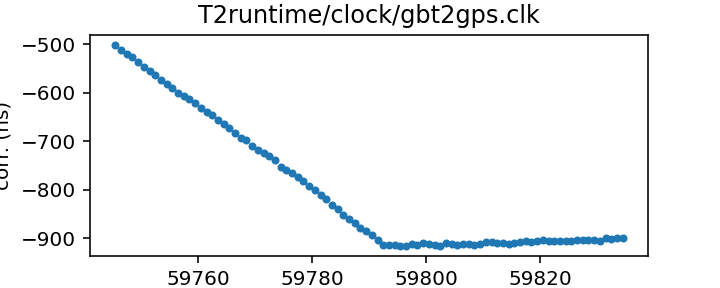
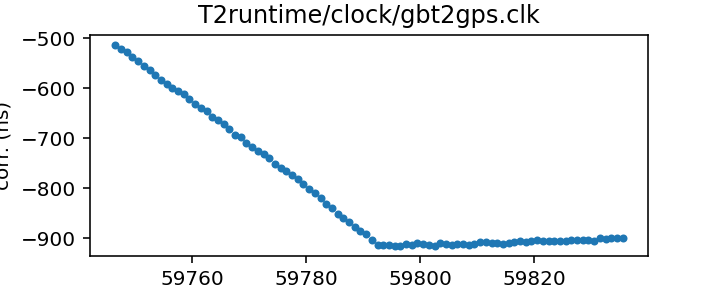
Routine gh-pages update from Github action Wed Sep 14 20:40:18 UTC 2022

diff --git a/status.md b/status.md
@@ -13,17 +13,17 @@ name of each clock file links to a page with more details.
 
 | Name | File | Corrections start | Corrections end | Last check date | Last check result 
 |:--- |:--- | --- | --- | --- |:--- 
-| [GPS to UTC](T2runtime/clock/gps2utc.clk.html) | `T2runtime/clock/gps2utc.clk` | 1993-01-01 MJD 48988.0 | 2022-08-28 MJD 59819.0 | 2022-09-13 | Unchanged 
-| [GPS to UTC (Combined Clock)](T2runtime/clock/gps2utc_cc.clk.html) | `T2runtime/clock/gps2utc_cc.clk` | 1993-01-01 MJD 48988.0 | 2022-08-28 MJD 59819.0 | 2022-09-13 | Unchanged 
-| [GPS to UTC (Corrected)](T2runtime/clock/gps2utc_c0p.clk.html) | `T2runtime/clock/gps2utc_c0p.clk` | 2010-12-29 MJD 55559.0 | 2022-08-28 MJD 59819.0 | 2022-09-13 | Unchanged 
-| [GBT](tempo/clock/time_gbt.dat.html) | `tempo/clock/time_gbt.dat` | 2000-12-31 MJD 51909.5 | 2022-09-12 MJD 59834.5 | 2022-09-13 | Updated 
-| [GBT (TEMPO2 converted from TEMPO)](T2runtime/clock/gbt2gps.clk.html) | `T2runtime/clock/gbt2gps.clk` | 2000-12-31 MJD 51909.5 | 2022-09-12 MJD 59834.5 | 2022-09-13 | Updated 
-| [Jodrell Bank](T2runtime/clock/jb2gps.clk.html) | `T2runtime/clock/jb2gps.clk` | 2006-10-13 MJD 54021.4 | 2021-11-03 MJD 59521.0 | 2022-09-07 | Unchanged 
-| [Jodrell Bank Roach](T2runtime/clock/jbroach2jb.clk.html) | `T2runtime/clock/jbroach2jb.clk` | 2006-10-13 MJD 54021.4 | 2018-03-20 MJD 58197.6 | 2022-09-07 | Unchanged 
-| [Jodrell Bank DFB](T2runtime/clock/jbdfb2jb.clk.html) | `T2runtime/clock/jbdfb2jb.clk` | 2006-10-13 MJD 54021.4 | 2017-05-11 MJD 57884.0 | 2022-09-07 | Unchanged 
+| [GPS to UTC](T2runtime/clock/gps2utc.clk.html) | `T2runtime/clock/gps2utc.clk` | 1993-01-01 MJD 48988.0 | 2022-08-28 MJD 59819.0 | 2022-09-14 | Unchanged 
+| [GPS to UTC (Combined Clock)](T2runtime/clock/gps2utc_cc.clk.html) | `T2runtime/clock/gps2utc_cc.clk` | 1993-01-01 MJD 48988.0 | 2022-08-28 MJD 59819.0 | 2022-09-14 | Unchanged 
+| [GPS to UTC (Corrected)](T2runtime/clock/gps2utc_c0p.clk.html) | `T2runtime/clock/gps2utc_c0p.clk` | 2010-12-29 MJD 55559.0 | 2022-08-28 MJD 59819.0 | 2022-09-14 | Unchanged 
+| [GBT](tempo/clock/time_gbt.dat.html) | `tempo/clock/time_gbt.dat` | 2000-12-31 MJD 51909.5 | 2022-09-13 MJD 59835.5 | 2022-09-14 | Updated 
+| [GBT (TEMPO2 converted from TEMPO)](T2runtime/clock/gbt2gps.clk.html) | `T2runtime/clock/gbt2gps.clk` | 2000-12-31 MJD 51909.5 | 2022-09-13 MJD 59835.5 | 2022-09-14 | Updated 
+| [Jodrell Bank](T2runtime/clock/jb2gps.clk.html) | `T2runtime/clock/jb2gps.clk` | 2006-10-13 MJD 54021.4 | 2021-11-03 MJD 59521.0 | 2022-09-14 | Unchanged 
+| [Jodrell Bank Roach](T2runtime/clock/jbroach2jb.clk.html) | `T2runtime/clock/jbroach2jb.clk` | 2006-10-13 MJD 54021.4 | 2018-03-20 MJD 58197.6 | 2022-09-14 | Unchanged 
+| [Jodrell Bank DFB](T2runtime/clock/jbdfb2jb.clk.html) | `T2runtime/clock/jbdfb2jb.clk` | 2006-10-13 MJD 54021.4 | 2017-05-11 MJD 57884.0 | 2022-09-14 | Unchanged 
 | [Meerkat (observatory)](T2runtime/clock/mk2utc_observatory.clk.html) | `T2runtime/clock/mk2utc_observatory.clk` | 2019-01-01 MJD 58484.0 | 2022-08-17 MJD 59809.0 | 2022-09-12 | **Failed to download** 
-| [Leap seconds](tempo/clock/leap.sec.html) | `tempo/clock/leap.sec` | 1972-07-01 MJD 41499.0 | 2017-01-01 MJD 57754.0 | 2022-09-13 | Unchanged 
-| [UT1 table](tempo/clock/ut1.dat.html) | `tempo/clock/ut1.dat` | 1973-01-02 MJD 41684.0 | 2023-09-16 MJD 60203.0 | 2022-09-13 | Unchanged 
+| [Leap seconds](tempo/clock/leap.sec.html) | `tempo/clock/leap.sec` | 1972-07-01 MJD 41499.0 | 2017-01-01 MJD 57754.0 | 2022-09-14 | Unchanged 
+| [UT1 table](tempo/clock/ut1.dat.html) | `tempo/clock/ut1.dat` | 1973-01-02 MJD 41684.0 | 2023-09-16 MJD 60203.0 | 2022-09-14 | Unchanged 
 
 
 
@@ -67,21 +67,21 @@ name of each clock file links to a page with more details.
 | [GBT (TEMPO2)](T2runtime/clock/gbt2gps_tempo2.clk.html) | `T2runtime/clock/gbt2gps_tempo2.clk` | 2000-12-31 MJD 51909.5 | 2020-02-25 MJD 58904.5 | 2022-09-12 | Unchanged 
 | [Jodrell Bank (TEMPO)](tempo/clock/time_jb.dat.html) | `tempo/clock/time_jb.dat` | 2006-10-13 MJD 54021.4 | 2019-05-13 MJD 58616.2 | 2022-09-08 | Unchanged 
 | [VLA](tempo/clock/time_vla.dat.html) | `tempo/clock/time_vla.dat` | 1990-10-27 MJD 48191.2 | 2021-03-07 MJD 59280.5 | 2022-09-08 | **Failed to download** 
-| [VLA (TEMPO2)](T2runtime/clock/vla2gps.clk.html) | `T2runtime/clock/vla2gps.clk` | 2015-02-01 MJD 57054.6 | 2021-03-07 MJD 59280.5 | 2022-09-07 | Unchanged 
-| [VLA to NIST](T2runtime/clock/vla2nist.clk.html) | `T2runtime/clock/vla2nist.clk` | 1990-10-27 MJD 48191.2 | 1993-11-13 MJD 49304.0 | 2022-09-07 | Unchanged 
+| [VLA (TEMPO2)](T2runtime/clock/vla2gps.clk.html) | `T2runtime/clock/vla2gps.clk` | 2015-02-01 MJD 57054.6 | 2021-03-07 MJD 59280.5 | 2022-09-14 | Unchanged 
+| [VLA to NIST](T2runtime/clock/vla2nist.clk.html) | `T2runtime/clock/vla2nist.clk` | 1990-10-27 MJD 48191.2 | 1993-11-13 MJD 49304.0 | 2022-09-14 | Unchanged 
 | [FAST](tempo/clock/time_fast.dat.html) | `tempo/clock/time_fast.dat` | 2017-07-26 MJD 57960.4 | 2019-09-18 MJD 58744.0 | 2022-09-08 | **Failed to download** 
 | [WSRT](T2runtime/clock/wsrt2gps.clk.html) | `T2runtime/clock/wsrt2gps.clk` | 1999-01-01 MJD 51179.5 | 2015-06-29 MJD 57202.1 | 2022-09-08 | Unchanged 
 | [WSRT (TEMPO)](tempo/clock/time_wsrt.dat.html) | `tempo/clock/time_wsrt.dat` | 1987-07-24 MJD 47000.0 | 2007-12-24 MJD 54458.0 | 2022-09-08 | **Validation failed** 
-| [Parkes](T2runtime/clock/pks2gps.clk.html) | `T2runtime/clock/pks2gps.clk` | 1858-11-17 MJD 0.0 | 2019-07-31 MJD 58695.4 | 2022-09-07 | Unchanged 
+| [Parkes](T2runtime/clock/pks2gps.clk.html) | `T2runtime/clock/pks2gps.clk` | 1858-11-17 MJD 0.0 | 2019-07-31 MJD 58695.4 | 2022-09-14 | Unchanged 
 | [Parkes (TEMPO)](tempo/clock/time_pks.dat.html) | `tempo/clock/time_pks.dat` | 1979-05-07 MJD 44000.0 | 2011-07-03 MJD 55745.8 | 2022-09-08 | **Validation failed** 
-| [SRT](T2runtime/clock/srt2gps.clk.html) | `T2runtime/clock/srt2gps.clk` | 2013-03-20 MJD 56371.0 | 2019-12-11 MJD 58828.0 | 2022-09-07 | Unchanged 
-| [Effelsberg](T2runtime/clock/eff2gps.clk.html) | `T2runtime/clock/eff2gps.clk` | 1993-11-29 MJD 49320.0 | 2015-06-22 MJD 57195.5 | 2022-09-07 | Unchanged 
-| [Effelsberg Asterix/PSRix](T2runtime/clock/effix2gps.clk.html) | `T2runtime/clock/effix2gps.clk` | 2011-01-01 MJD 55562.5 | 2021-03-21 MJD 59294.5 | 2022-09-07 | Unchanged 
+| [SRT](T2runtime/clock/srt2gps.clk.html) | `T2runtime/clock/srt2gps.clk` | 2013-03-20 MJD 56371.0 | 2019-12-11 MJD 58828.0 | 2022-09-14 | Unchanged 
+| [Effelsberg](T2runtime/clock/eff2gps.clk.html) | `T2runtime/clock/eff2gps.clk` | 1993-11-29 MJD 49320.0 | 2015-06-22 MJD 57195.5 | 2022-09-14 | Unchanged 
+| [Effelsberg Asterix/PSRix](T2runtime/clock/effix2gps.clk.html) | `T2runtime/clock/effix2gps.clk` | 2011-01-01 MJD 55562.5 | 2021-03-21 MJD 59294.5 | 2022-09-14 | Unchanged 
 | [NUPPI](tempo/clock/time_nuppi.dat.html) | `tempo/clock/time_nuppi.dat` | 2005-03-07 MJD 53436.0 | 2015-11-08 MJD 57334.6 | 2022-09-08 | Unchanged 
-| [Meerkat (TEMPO2)](T2runtime/clock/mk2utc.clk.html) | `T2runtime/clock/mk2utc.clk` | 2019-01-01 MJD 58484.0 | 2021-02-22 MJD 59268.0 | 2022-09-07 | Unchanged 
-| [MOST](T2runtime/clock/mo2gps.clk.html) | `T2runtime/clock/mo2gps.clk` | 2003-12-27 MJD 53000.0 | 2018-09-06 MJD 58367.0 | 2022-09-07 | Unchanged 
-| [Nancay to obspm](T2runtime/clock/ncyobs2obspm.clk.html) | `T2runtime/clock/ncyobs2obspm.clk` | 1988-05-18 MJD 47299.6 | 2021-11-01 MJD 59519.6 | 2022-09-07 | Unchanged 
-| [obspm](T2runtime/clock/obspm2gps.clk.html) | `T2runtime/clock/obspm2gps.clk` | 2003-12-01 MJD 52974.0 | 2021-08-28 MJD 59454.0 | 2022-09-07 | Unchanged 
+| [Meerkat (TEMPO2)](T2runtime/clock/mk2utc.clk.html) | `T2runtime/clock/mk2utc.clk` | 2019-01-01 MJD 58484.0 | 2021-02-22 MJD 59268.0 | 2022-09-14 | Unchanged 
+| [MOST](T2runtime/clock/mo2gps.clk.html) | `T2runtime/clock/mo2gps.clk` | 2003-12-27 MJD 53000.0 | 2018-09-06 MJD 58367.0 | 2022-09-14 | Unchanged 
+| [Nancay to obspm](T2runtime/clock/ncyobs2obspm.clk.html) | `T2runtime/clock/ncyobs2obspm.clk` | 1988-05-18 MJD 47299.6 | 2021-11-01 MJD 59519.6 | 2022-09-14 | Unchanged 
+| [obspm](T2runtime/clock/obspm2gps.clk.html) | `T2runtime/clock/obspm2gps.clk` | 2003-12-01 MJD 52974.0 | 2021-08-28 MJD 59454.0 | 2022-09-14 | Unchanged 
 
 
 ### Further information:

diff --git a/T2runtime/clock/gbt2gps.clk.md b/T2runtime/clock/gbt2gps.clk.md
@@ -23,14 +23,13 @@ If questions arise about the conversion, contact Anne Archibald
 | Format | tempo2 |
 | Bogus last correction | False |
 | Clock file start | 2000-12-31 MJD 51909.5 |
-| Clock file end | 2022-09-12 MJD 59834.5 |
+| Clock file end | 2022-09-13 MJD 59835.5 |
 | Update interval (days) | 1 |
-| Last update attempt | 2022-09-13 |
+| Last update attempt | 2022-09-14 |
 | Last update result | Updated |
 
 Log entries from the last few update attempts:
 ```
-2022-09-04 20:35:17.118 - Updated
 2022-09-05 20:35:29.913 - Updated
 2022-09-06 20:35:59.422 - Updated
 2022-09-07 20:40:06.548 - Updated
@@ -40,12 +39,13 @@ Log entries from the last few update attempts:
 2022-09-11 20:36:52.202 - Updated
 2022-09-12 20:38:21.941 - Updated
 2022-09-13 20:37:38.241 - Updated
+2022-09-14 20:39:52.597 - Updated
 ```
 [Full log](https://raw.githubusercontent.com/ipta/pulsar-clock-corrections/main/log/T2runtime/clock/gbt2gps.clk.log)
 
 Leading comments from clock file:
 
-    # This file was automatically converted from tempo/clock/time_gbt.dat on 2022-09-13 20:37:38.157
+    # This file was automatically converted from tempo/clock/time_gbt.dat on 2022-09-14 20:39:52.528
 
 
 

diff --git a/tempo/clock/time_gbt.dat.md b/tempo/clock/time_gbt.dat.md
@@ -18,14 +18,13 @@ If questions arise, contact Ryan S. Lynch <rlynch@nrao.edu>.
 | Format | tempo |
 | Bogus last correction | False |
 | Clock file start | 2000-12-31 MJD 51909.5 |
-| Clock file end | 2022-09-12 MJD 59834.5 |
+| Clock file end | 2022-09-13 MJD 59835.5 |
 | Update interval (days) | 1 |
-| Last update attempt | 2022-09-13 |
+| Last update attempt | 2022-09-14 |
 | Last update result | Updated |
 
 Log entries from the last few update attempts:
 ```
-2022-09-04 20:35:17.025 - Updated
 2022-09-05 20:35:29.421 - Updated
 2022-09-06 20:35:59.335 - Updated
 2022-09-07 20:40:06.476 - Updated
@@ -35,6 +34,7 @@ Log entries from the last few update attempts:
 2022-09-11 20:36:52.132 - Updated
 2022-09-12 20:38:21.645 - Updated
 2022-09-13 20:37:38.154 - Updated
+2022-09-14 20:39:52.526 - Updated
 ```
 [Full log](https://raw.githubusercontent.com/ipta/pulsar-clock-corrections/main/log/tempo/clock/time_gbt.dat.log)
 

diff --git a/T2runtime/clock/vla2nist.clk.md b/T2runtime/clock/vla2nist.clk.md
@@ -16,12 +16,11 @@ This file is pulled from the TEMPO2 repository and may not be fully up-to-date.
 | Clock file start | 1990-10-27 MJD 48191.2 |
 | Clock file end | 1993-11-13 MJD 49304.0 |
 | Update interval (days) | 7 |
-| Last update attempt | 2022-09-07 |
+| Last update attempt | 2022-09-14 |
 | Last update result | Unchanged |
 
 Log entries from the last few update attempts:
 ```
-2022-07-06 20:33:09.210 - Unchanged
 2022-07-13 20:34:15.347 - Unchanged
 2022-07-20 20:36:47.939 - Unchanged
 2022-07-27 20:33:00.871 - Unchanged
@@ -31,6 +30,7 @@ Log entries from the last few update attempts:
 2022-08-24 20:34:36.417 - Unchanged
 2022-08-31 20:34:57.441 - Unchanged
 2022-09-07 20:40:07.572 - Unchanged
+2022-09-14 20:39:53.747 - Unchanged
 ```
 [Full log](https://raw.githubusercontent.com/ipta/pulsar-clock-corrections/main/log/T2runtime/clock/vla2nist.clk.log)
 

diff --git a/T2runtime/clock/srt2gps.clk.md b/T2runtime/clock/srt2gps.clk.md
@@ -16,12 +16,11 @@ This file is pulled from the TEMPO2 repository and may not be fully up-to-date.
 | Clock file start | 2013-03-20 MJD 56371.0 |
 | Clock file end | 2019-12-11 MJD 58828.0 |
 | Update interval (days) | 7 |
-| Last update attempt | 2022-09-07 |
+| Last update attempt | 2022-09-14 |
 | Last update result | Unchanged |
 
 Log entries from the last few update attempts:
 ```
-2022-07-06 20:33:09.809 - Unchanged
 2022-07-13 20:34:15.833 - Unchanged
 2022-07-20 20:36:48.508 - Unchanged
 2022-07-27 20:33:02.182 - Unchanged
@@ -31,6 +30,7 @@ Log entries from the last few update attempts:
 2022-08-24 20:34:37.625 - Unchanged
 2022-08-31 20:34:57.967 - Unchanged
 2022-09-07 20:40:07.975 - Unchanged
+2022-09-14 20:39:54.158 - Unchanged
 ```
 [Full log](https://raw.githubusercontent.com/ipta/pulsar-clock-corrections/main/log/T2runtime/clock/srt2gps.clk.log)
 

diff --git a/T2runtime/clock/vla2gps.clk.md b/T2runtime/clock/vla2gps.clk.md
@@ -16,12 +16,11 @@ This file is pulled from the TEMPO2 repository and may not be fully up-to-date.
 | Clock file start | 2015-02-01 MJD 57054.6 |
 | Clock file end | 2021-03-07 MJD 59280.5 |
 | Update interval (days) | 7 |
-| Last update attempt | 2022-09-07 |
+| Last update attempt | 2022-09-14 |
 | Last update result | Unchanged |
 
 Log entries from the last few update attempts:
 ```
-2022-07-06 20:33:09.034 - Unchanged
 2022-07-13 20:34:15.178 - Unchanged
 2022-07-20 20:36:47.734 - Unchanged
 2022-07-27 20:33:00.380 - Unchanged
@@ -31,6 +30,7 @@ Log entries from the last few update attempts:
 2022-08-24 20:34:36.005 - Unchanged
 2022-08-31 20:34:57.244 - Unchanged
 2022-09-07 20:40:07.430 - Unchanged
+2022-09-14 20:39:53.592 - Unchanged
 ```
 [Full log](https://raw.githubusercontent.com/ipta/pulsar-clock-corrections/main/log/T2runtime/clock/vla2gps.clk.log)
 

diff --git a/T2runtime/clock/mk2utc.clk.md b/T2runtime/clock/mk2utc.clk.md
@@ -16,12 +16,11 @@ This file is pulled from the TEMPO2 repository and may not be fully up-to-date.
 | Clock file start | 2019-01-01 MJD 58484.0 |
 | Clock file end | 2021-02-22 MJD 59268.0 |
 | Update interval (days) | 7 |
-| Last update attempt | 2022-09-07 |
+| Last update attempt | 2022-09-14 |
 | Last update result | Unchanged |
 
 Log entries from the last few update attempts:
 ```
-2022-07-06 20:33:10.634 - Unchanged
 2022-07-13 20:34:16.550 - Unchanged
 2022-07-20 20:36:49.303 - Unchanged
 2022-07-27 20:33:04.002 - Unchanged
@@ -31,6 +30,7 @@ Log entries from the last few update attempts:
 2022-08-24 20:34:39.370 - Unchanged
 2022-08-31 20:34:58.692 - Unchanged
 2022-09-07 20:40:08.550 - Unchanged
+2022-09-14 20:39:54.819 - Unchanged
 ```
 [Full log](https://raw.githubusercontent.com/ipta/pulsar-clock-corrections/main/log/T2runtime/clock/mk2utc.clk.log)
 

diff --git a/T2runtime/clock/mo2gps.clk.md b/T2runtime/clock/mo2gps.clk.md
@@ -16,12 +16,11 @@ This file is pulled from the TEMPO2 repository and may not be fully up-to-date.
 | Clock file start | 2003-12-27 MJD 53000.0 |
 | Clock file end | 2018-09-06 MJD 58367.0 |
 | Update interval (days) | 7 |
-| Last update attempt | 2022-09-07 |
+| Last update attempt | 2022-09-14 |
 | Last update result | Unchanged |
 
 Log entries from the last few update attempts:
 ```
-2022-07-06 20:33:10.811 - Unchanged
 2022-07-13 20:34:16.663 - Unchanged
 2022-07-20 20:36:49.528 - Unchanged
 2022-07-27 20:33:04.427 - Unchanged
@@ -31,6 +30,7 @@ Log entries from the last few update attempts:
 2022-08-24 20:34:39.751 - Unchanged
 2022-08-31 20:34:58.882 - Unchanged
 2022-09-07 20:40:08.646 - Unchanged
+2022-09-14 20:39:54.973 - Unchanged
 ```
 [Full log](https://raw.githubusercontent.com/ipta/pulsar-clock-corrections/main/log/T2runtime/clock/mo2gps.clk.log)
 

diff --git a/T2runtime/clock/gps2utc_c0p.clk.md b/T2runtime/clock/gps2utc_c0p.clk.md
@@ -30,12 +30,11 @@ about the BIPM's published corrections, contact <tai@bipm.org>.
 | Clock file start | 2010-12-29 MJD 55559.0 |
 | Clock file end | 2022-08-28 MJD 59819.0 |
 | Update interval (days) | 1 |
-| Last update attempt | 2022-09-13 |
+| Last update attempt | 2022-09-14 |
 | Last update result | Unchanged |
 
 Log entries from the last few update attempts:
 ```
-2022-09-04 20:35:16.200 - Unchanged
 2022-09-05 20:35:28.600 - Unchanged
 2022-09-06 20:35:58.451 - Unchanged
 2022-09-07 20:40:06.098 - Unchanged
@@ -45,6 +44,7 @@ Log entries from the last few update attempts:
 2022-09-11 20:36:51.441 - Unchanged
 2022-09-12 20:38:20.855 - Unchanged
 2022-09-13 20:37:37.256 - Unchanged
+2022-09-14 20:39:52.057 - Unchanged
 ```
 [Full log](https://raw.githubusercontent.com/ipta/pulsar-clock-corrections/main/log/T2runtime/clock/gps2utc_c0p.clk.log)
 

diff --git a/T2runtime/clock/gps2utc_cc.clk.md b/T2runtime/clock/gps2utc_cc.clk.md
@@ -29,12 +29,11 @@ about the BIPM's published corrections, contact <tai@bipm.org>.
 | Clock file start | 1993-01-01 MJD 48988.0 |
 | Clock file end | 2022-08-28 MJD 59819.0 |
 | Update interval (days) | 1 |
-| Last update attempt | 2022-09-13 |
+| Last update attempt | 2022-09-14 |
 | Last update result | Unchanged |
 
 Log entries from the last few update attempts:
 ```
-2022-09-04 20:35:16.183 - Unchanged
 2022-09-05 20:35:28.587 - Unchanged
 2022-09-06 20:35:58.436 - Unchanged
 2022-09-07 20:40:06.087 - Unchanged
@@ -44,6 +43,7 @@ Log entries from the last few update attempts:
 2022-09-11 20:36:51.430 - Unchanged
 2022-09-12 20:38:20.842 - Unchanged
 2022-09-13 20:37:37.243 - Unchanged
+2022-09-14 20:39:52.045 - Unchanged
 ```
 [Full log](https://raw.githubusercontent.com/ipta/pulsar-clock-corrections/main/log/T2runtime/clock/gps2utc_cc.clk.log)
 

diff --git a/T2runtime/clock/gps2utc.clk.md b/T2runtime/clock/gps2utc.clk.md
@@ -32,12 +32,11 @@ about the BIPM's published corrections, contact <tai@bipm.org>.
 | Clock file start | 1993-01-01 MJD 48988.0 |
 | Clock file end | 2022-08-28 MJD 59819.0 |
 | Update interval (days) | 1 |
-| Last update attempt | 2022-09-13 |
+| Last update attempt | 2022-09-14 |
 | Last update result | Unchanged |
 
 Log entries from the last few update attempts:
 ```
-2022-09-04 20:35:16.130 - Unchanged
 2022-09-05 20:35:28.547 - Unchanged
 2022-09-06 20:35:58.396 - Unchanged
 2022-09-07 20:40:06.054 - Unchanged
@@ -47,6 +46,7 @@ Log entries from the last few update attempts:
 2022-09-11 20:36:51.397 - Unchanged
 2022-09-12 20:38:20.800 - Unchanged
 2022-09-13 20:37:37.203 - Unchanged
+2022-09-14 20:39:52.012 - Unchanged
 ```
 [Full log](https://raw.githubusercontent.com/ipta/pulsar-clock-corrections/main/log/T2runtime/clock/gps2utc.clk.log)
 

diff --git a/T2runtime/clock/ncyobs2obspm.clk.md b/T2runtime/clock/ncyobs2obspm.clk.md
@@ -21,12 +21,11 @@ thus here) can be expected to be somewhat up to date.
 | Clock file start | 1988-05-18 MJD 47299.6 |
 | Clock file end | 2021-11-01 MJD 59519.6 |
 | Update interval (days) | 7 |
-| Last update attempt | 2022-09-07 |
+| Last update attempt | 2022-09-14 |
 | Last update result | Unchanged |
 
 Log entries from the last few update attempts:
 ```
-2022-07-06 20:33:11.030 - Unchanged
 2022-07-13 20:34:16.845 - Unchanged
 2022-07-20 20:36:49.779 - Unchanged
 2022-07-27 20:33:05.061 - Unchanged
@@ -36,6 +35,7 @@ Log entries from the last few update attempts:
 2022-08-24 20:34:40.346 - Unchanged
 2022-08-31 20:34:59.125 - Unchanged
 2022-09-07 20:40:08.835 - Unchanged
+2022-09-14 20:39:55.204 - Unchanged
 ```
 [Full log](https://raw.githubusercontent.com/ipta/pulsar-clock-corrections/main/log/T2runtime/clock/ncyobs2obspm.clk.log)
 
